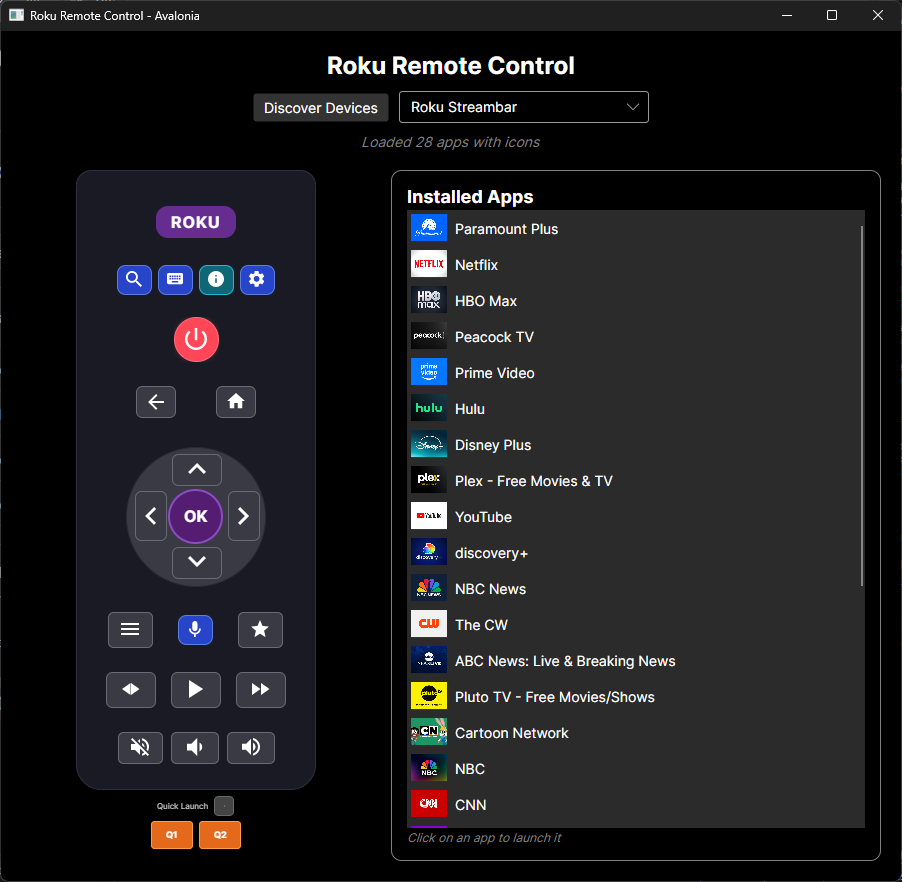
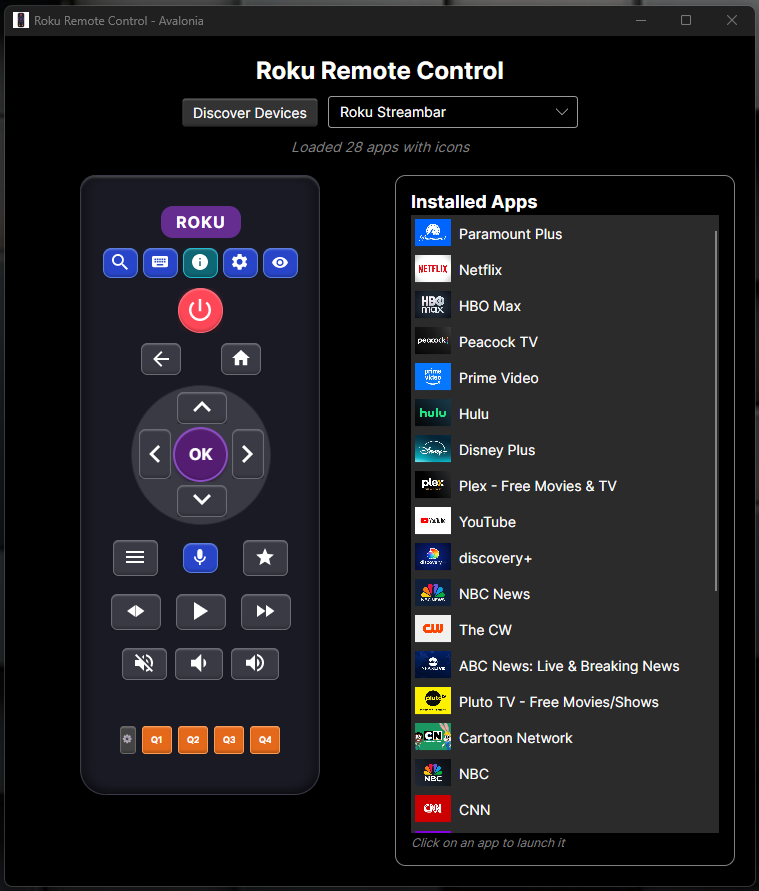
UI cleanup

diff --git a/RokuRemoteAvalonia/MainWindow.axaml.cs b/RokuRemoteAvalonia/MainWindow.axaml.cs
@@ -1,6 +1,7 @@
 using Avalonia;
 using Avalonia.Controls;
 using Avalonia.Interactivity;
+using Avalonia.Media.Imaging;
 using DialogHostAvalonia;
 using RokuRemoteAvalonia.Controls;
 using RokuRemoteAvalonia.Models;
@@ -9,12 +10,11 @@ using System;
 using System.Collections.Generic;
 using System.Collections.ObjectModel;
 using System.ComponentModel;
-using System.Linq;
-using System.Threading.Tasks;
-using System.Net.Http;
-using System.IO;
-using Avalonia.Media.Imaging;
 using System.Diagnostics;
+using System.IO;
+using System.Linq;
+using System.Net.Http;
+using System.Threading.Tasks;
 using static RRemote.Roku.RokuClient;
 
 namespace RokuRemoteAvalonia
@@ -67,9 +67,12 @@ namespace RokuRemoteAvalonia
         private bool _isRemoteOnlyMode = false;
         private double _savedWidth;
         private double _savedHeight;
+        private double _savedMinWidth;
+        private double _savedMinHeight;
         private bool _savedCanResize;
         private WindowDecorations _savedWindowDecorations;
         private Avalonia.Media.IBrush? _savedBackground;
+        private Avalonia.Media.IBrush? _savedHostBackground;
         private IReadOnlyList<WindowTransparencyLevel>? _savedTransparencyLevelHint;
         private Thickness _savedRootGridMargin;
         private Thickness _savedContentGridMargin;
@@ -757,9 +760,12 @@ namespace RokuRemoteAvalonia
             {
                 _savedWidth = Width;
                 _savedHeight = Height;
+                _savedMinWidth = MinWidth;
+                _savedMinHeight = MinHeight;
                 _savedCanResize = CanResize;
                 _savedWindowDecorations = WindowDecorations;
                 _savedBackground = Background;
+                _savedHostBackground = MainHost.Background;
                 _savedTransparencyLevelHint = TransparencyLevelHint;
                 _savedRootGridMargin = RootGrid.Margin;
                 _savedContentGridMargin = ContentGrid.Margin;
@@ -772,10 +778,19 @@ namespace RokuRemoteAvalonia
                 ContentGrid.ColumnDefinitions[2].Width = new GridLength(0);
                 ContentGrid.ColumnDefinitions[0].Width = GridLength.Auto;
 
-                Background = Avalonia.Media.Brushes.Transparent;
+                // null (not Transparent) => the area is not hit-testable, so clicks
+                // fall through to whatever is behind the window.
+                Background = null;
+                MainHost.Background = null;
+
                 TransparencyLevelHint = new[] { WindowTransparencyLevel.Transparent };
                 WindowDecorations = WindowDecorations.None;
                 CanResize = false;
+
+                // Must drop the min-size *before* SizeToContent, otherwise the window
+                // is pinned at 750x850 and the empty region remains part of the window.
+                MinWidth = 0;
+                MinHeight = 0;
                 SizeToContent = SizeToContent.WidthAndHeight;
             }
             else
@@ -783,6 +798,7 @@ namespace RokuRemoteAvalonia
                 SizeToContent = SizeToContent.Manual;
                 WindowDecorations = _savedWindowDecorations;
                 Background = _savedBackground;
+                MainHost.Background = _savedHostBackground;
                 TransparencyLevelHint = _savedTransparencyLevelHint ?? Array.Empty<WindowTransparencyLevel>();
                 CanResize = _savedCanResize;
 
@@ -792,6 +808,9 @@ namespace RokuRemoteAvalonia
                 ContentGrid.ColumnDefinitions[2].Width = _savedAppsColumnWidth;
                 ContentGrid.ColumnDefinitions[0].Width = new GridLength(350);
 
+                // Restore min-size first so the explicit Width/Height are not clamped.
+                MinWidth = _savedMinWidth;
+                MinHeight = _savedMinHeight;
                 Width = _savedWidth;
                 Height = _savedHeight;
             }

diff --git a/RokuRemoteAvalonia/App.axaml.cs b/RokuRemoteAvalonia/App.axaml.cs
@@ -20,5 +20,15 @@ namespace RokuRemoteAvalonia
 
             base.OnFrameworkInitializationCompleted();
         }
+
+        public void OnTrayIconClicked(object? sender, System.EventArgs e)
+        {
+            if (ApplicationLifetime is IClassicDesktopStyleApplicationLifetime { MainWindow: { } window })
+            {
+                window.Show();
+                window.WindowState = Avalonia.Controls.WindowState.Normal;
+                window.Activate();
+            }
+        }
     }
 }
